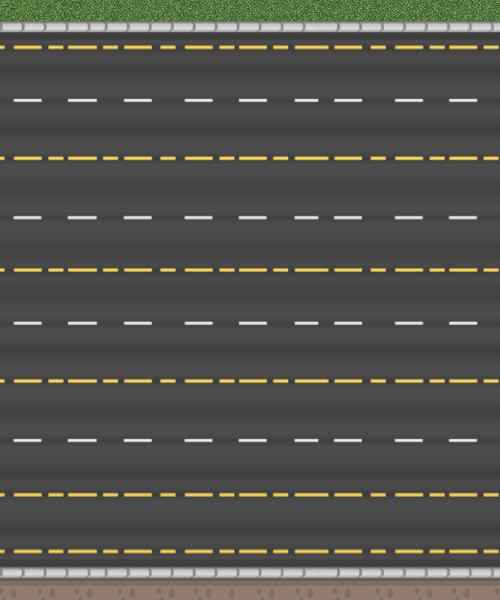
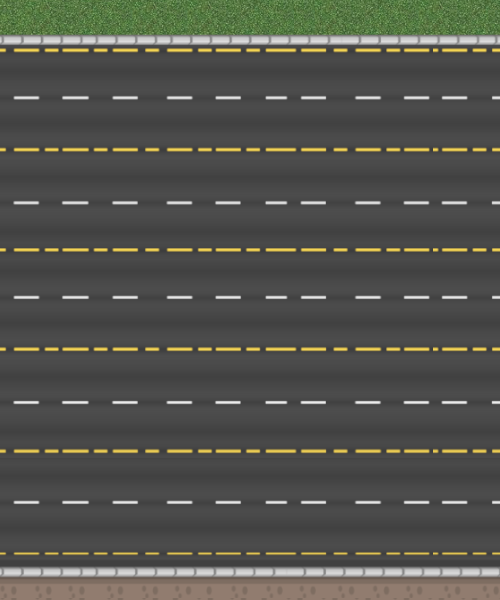
Modification background de l'application.

diff --git a/src/main/java/graphicalElements/App.java b/src/main/java/graphicalElements/App.java
@@ -47,7 +47,7 @@ public class App extends Application implements IFroggerGraphics, VoitureGraphic
     //Images
     Image frog_img = new Image(imageFrog(),d_x, d_y, false, false);
     Image car_img = new Image(imageVehicule(), d_x, d_y, false, false);
-    Image background_img = new Image(imageBackground(), d_x, d_y, false, false);
+    Image background_img = new Image(imageBackground(), W, H + 2 * d_y, false, false);
 
 
     @Override
@@ -83,6 +83,7 @@ public class App extends Application implements IFroggerGraphics, VoitureGraphic
                 gc.fillRect(0, d_y, W, H);
 
                 //Affichage de la grenouille
+                gc.drawImage(background_img, 0, 0, W, H + 2 * d_y);
                 gc.drawImage(frog_img, frog.getPosition()[0], frog.getPosition()[1]);
 
                 theScene.setOnKeyPressed(this::KeyPressed);
@@ -97,7 +98,7 @@ public class App extends Application implements IFroggerGraphics, VoitureGraphic
                             int y = (int) voies[i].position.get(j)[1].doubleValue();
 
                             gc.drawImage(car_img, x, y, d_x, d_y);
-                            //gc.drawImage(background_img, 0, 0, W, H + 2 * d_y);
+
 
                             //Vérification d'une éventuelle collision
                             if ((frog.getPosition()[0] - d_x <= x) & (x <= (frog.getPosition()[0]) & y == frog.getPosition()[1])) {
